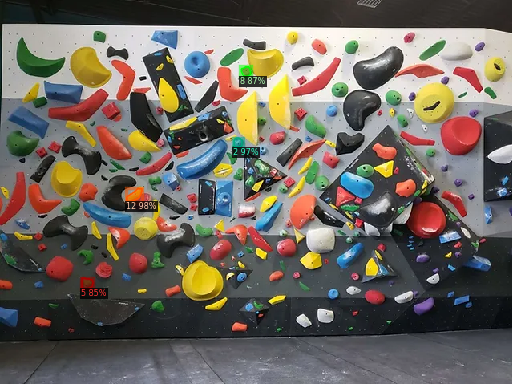
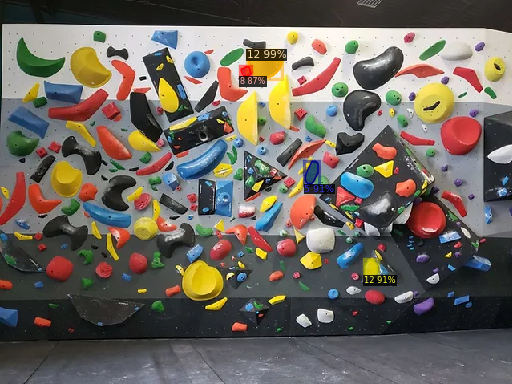
training / testing ipynb

diff --git a/backend/main.py b/backend/main.py
@@ -29,25 +29,51 @@ app = Flask(__name__)
 UPLOAD_FOLDER = './uploads'
 app.config['UPLOAD_FOLDER'] = UPLOAD_FOLDER
 
+# def generate_path(holds, start_idx, end_idx, max_move_dist, dist_matrix):
+#     path = [start_idx]
+#     current_hold_idx = start_idx
+
+#     while current_hold_idx != end_idx:
+#         print('hi')
+#         possible_moves = np.where(dist_matrix[current_hold_idx, :] < max_move_dist)[0]
+#         possible_moves = [idx for idx in possible_moves if idx not in path]
+
+#         if not possible_moves:
+#             print(current_hold_idx)
+#             raise ValueError("No possible moves. Increase max_move_dist or change holds.")
+        
+#         # Get the Euclidean distances to the end hold for all possible moves
+#         distances_to_end = np.sqrt(np.sum((holds[possible_moves] - holds[end_idx])**2, axis=1))
+
+#         # Choose the hold with the smallest distance to the end hold
+#         next_hold_idx = possible_moves[np.argmin(distances_to_end)]
+        
+#         path.append(next_hold_idx)
+#         current_hold_idx = next_hold_idx
+
+#     return path
+
 def generate_path(holds, start_idx, end_idx, max_move_dist, dist_matrix):
     path = [start_idx]
     current_hold_idx = start_idx
+    num_holds = 7
 
-    while current_hold_idx != end_idx:
-        print('hi')
+    while len(path) != num_holds:
         possible_moves = np.where(dist_matrix[current_hold_idx, :] < max_move_dist)[0]
         possible_moves = [idx for idx in possible_moves if idx not in path]
 
         if not possible_moves:
-            print(current_hold_idx)
             raise ValueError("No possible moves. Increase max_move_dist or change holds.")
-        
+
         # Get the Euclidean distances to the end hold for all possible moves
         distances_to_end = np.sqrt(np.sum((holds[possible_moves] - holds[end_idx])**2, axis=1))
 
-        # Choose the hold with the smallest distance to the end hold
-        next_hold_idx = possible_moves[np.argmin(distances_to_end)]
-        
+        # Select a random hold from the possible moves based on their distances to the end hold
+        # Adjust the randomness by modifying the weights based on the distances
+        weights = distances_to_end.max() - distances_to_end
+        probabilities = weights / np.sum(weights)
+        next_hold_idx = np.random.choice(possible_moves, p=probabilities)
+
         path.append(next_hold_idx)
         current_hold_idx = next_hold_idx
 
@@ -60,6 +86,8 @@ def process_uploaded_image(file_path, filename):
     print(outputs)
     print(outputs)
     instances = outputs['instances']
+    
+
 
     pred_boxes = instances.pred_boxes
     # Convert the Boxes object to tensor
@@ -100,7 +128,7 @@ def process_uploaded_image(file_path, filename):
     random_end_idx = np.random.choice(end_indices)
     
     dist_matrix = distance_matrix(center_coordinates, center_coordinates)
-    max_move_dist = 150
+    max_move_dist = 250
 
     path = generate_path(center_coordinates, random_start_idx, random_end_idx, max_move_dist, dist_matrix)
     
@@ -124,6 +152,9 @@ def process_uploaded_image(file_path, filename):
     # Saving the image as a .jpeg file
     location = f"./outputs/+ {filename}"
     cv2.imwrite(location, out.get_image()[:, :, ::-1])
+    
+    out1 = visualizer.draw_instance_predictions(instances.to("cpu"))
+    cv2.imwrite('./class/class.png', out1.get_image()[:, :, ::-1])
     return location
     
 
